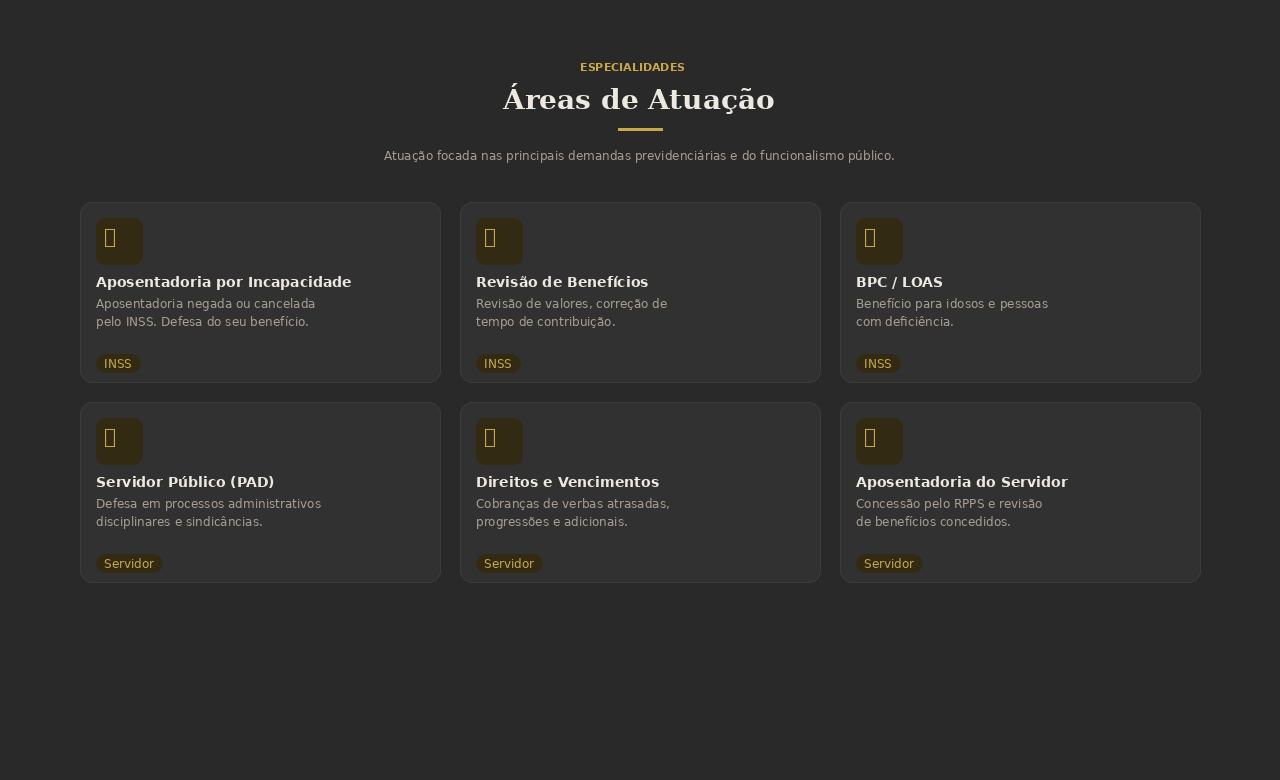
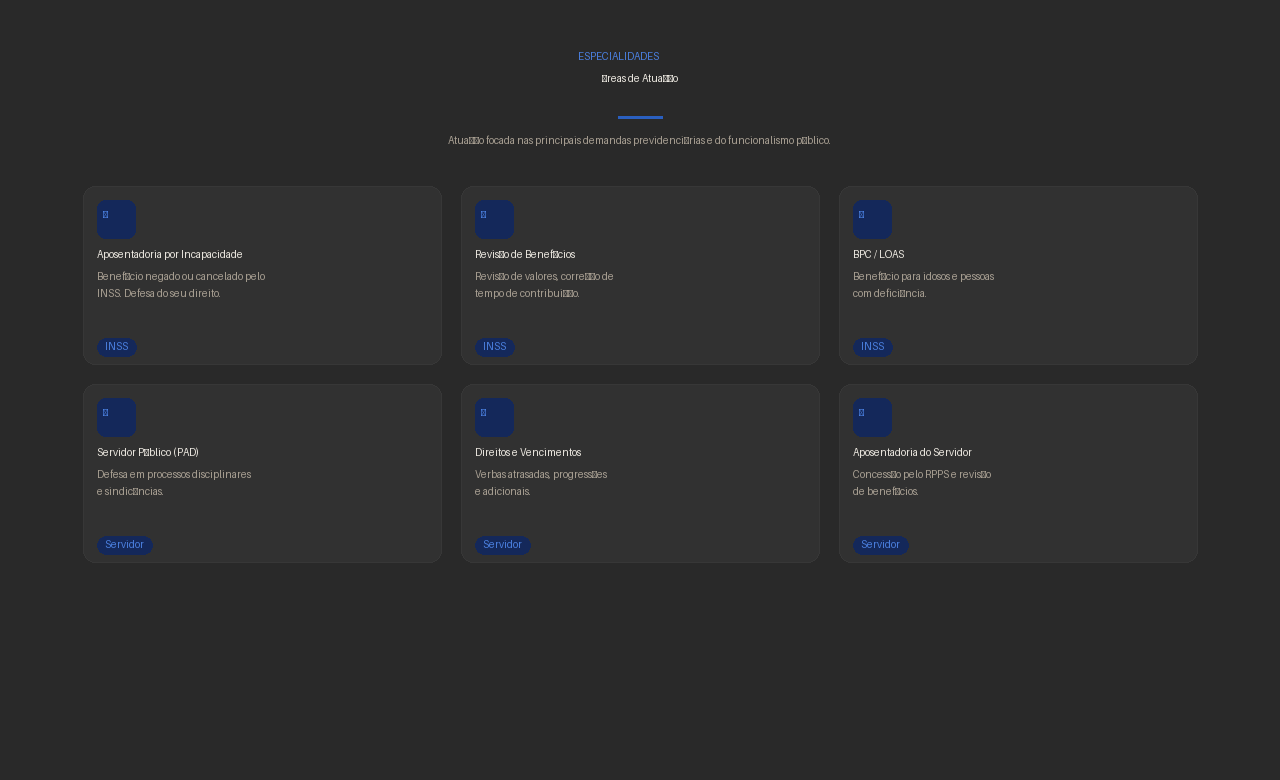
Atualiza tema para azul e escreve Sobre Mim com história real
- Cor de destaque alterada para azul royal (#2A5FBF)
- Seção Sobre com história pessoal: origens no sítio, entrada no
  meio jurídico em 2017, formação UNIR Cacoal, OAB desde 2020
- Pós-graduações: RPPS, Direito Tributário, BPC e Incapacidade
- Atualiza prévias de layout

https://claude.ai/code/session_011en3AiYJLXRS6qYDrSqLZM

diff --git a/index.html b/index.html
@@ -12,9 +12,9 @@
     *, *::before, *::after { box-sizing: border-box; margin: 0; padding: 0; }
 
     :root {
-      --gold:       #C9A84C;
-      --gold-light: #E2C47A;
-      --gold-dim:   rgba(201,168,76,0.12);
+      --gold:       #2A5FBF;
+      --gold-light: #4A7FDF;
+      --gold-dim:   rgba(42,95,191,0.13);
       --bg:         #292929;
       --bg-2:       #313131;
       --bg-3:       #3A3A3A;
@@ -460,7 +460,7 @@
             <img src="foto-sobre.jpg" alt="Dr. Anthony Henrik Webler" />
           </div>
           <div class="sobre-quote">
-            Cada cliente merece atenção, clareza e resultado.
+            A revolta com a injustiça virou propósito de vida.
           </div>
         </div>
 
@@ -470,10 +470,13 @@
           <div class="line"></div>
 
           <p>
-            Advogado com atuação focada na defesa dos direitos previdenciários e dos servidores públicos. Acredita que todo cidadão merece acesso à justiça com clareza, eficiência e respeito.
+            Cresci no sítio e aprendi desde cedo o valor do trabalho duro. Vi de perto a luta diária de quem passa a vida inteira trabalhando — seja no campo, no serviço público ou contribuindo ao INSS — e que, no momento de maior necessidade, se vê desamparado por um sistema que deveria protegê-lo.
           </p>
           <p>
-            Com inscrições ativas na OAB de Rondônia e do Amazonas, atua com frequência nos dois estados, mas está pronto para defender seus direitos em qualquer parte do Brasil — com atendimento presencial em Cacoal/RO e online para todo o país.
+            Essa revolta virou propósito. Entrei no meio jurídico em 2017, ainda antes de me formar, já atuando diretamente com servidores públicos e causas previdenciárias. Me formei em Direito pela <strong>UNIR — Universidade Federal de Rondônia</strong>, campus de Cacoal, e desde 2020 advogo com uma certeza: cada processo representa uma vida, uma família, uma dignidade que precisa ser respeitada.
+          </p>
+          <p>
+            Sou apaixonado pela causa. Não é só profissão — é compromisso. O descaso do INSS com quem tem direito a benefícios e o abandono dos municípios com seus próprios servidores me movem todos os dias a lutar com técnica, dedicação e humanidade.
           </p>
 
           <div class="oab-tags">
@@ -482,10 +485,12 @@
           </div>
 
           <div class="credentials">
-            <div class="cred">🏛 Especialista em Direito Previdenciário (INSS)</div>
-            <div class="cred">🎖 Especialista em Direito do Servidor Público</div>
-            <div class="cred">📍 Base em Cacoal/RO — Atende todo o Brasil</div>
-            <div class="cred">💻 Atendimento presencial e online</div>
+            <div class="cred">🎓 Bacharel em Direito — UNIR, campus Cacoal/RO</div>
+            <div class="cred">📚 Pós-graduação em Previdência do Regime Próprio (RPPS)</div>
+            <div class="cred">📚 Pós-graduação em Direito Tributário</div>
+            <div class="cred">📋 Cursos de especialização em BPC/LOAS e Aposentadoria por Incapacidade</div>
+            <div class="cred">⚖ Advogado desde 2020 · No meio jurídico desde 2017</div>
+            <div class="cred">🇧🇷 Atende todo o Brasil — presencial e online</div>
           </div>
         </div>
       </div>
